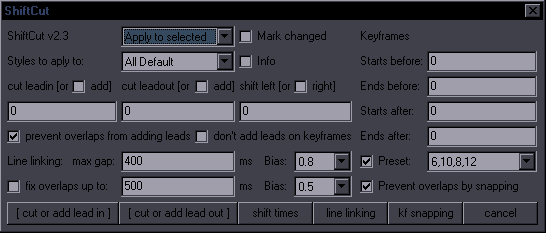
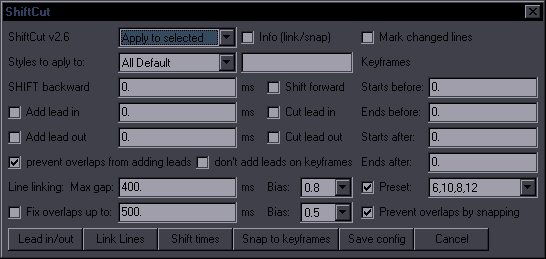
2014-07-31

diff --git a/ts/scripts-unanimated.htm b/ts/scripts-unanimated.htm
@@ -48,7 +48,7 @@ You can report problems/errors in #irrational-typesetting-wizardry@irc.rizon.net
 <a href="multicopy.lua">MultiCopy</a> 				</td><td>v2.3 - copy various things from multiple lines to other multiple lines</td></tr><tr><td>
 <a href="backup.lua">Backup Checker</a> 			</td><td>v1.1 - lets you to make a backup of your script and compare new lines with the backup</td></tr><tr><td>
 <a href="time_signs2.lua">Time signs from timecodes</a> 	</td><td>v2.5 - times signs from timecodes like {TS 5:36}</td></tr><tr><td>
-<a href="shiftcut.lua">ShiftCut</a> 				</td><td>v2.5 - does things with timing. TPP functions and more.</td></tr><tr><td>
+<a href="shiftcut.lua">ShiftCut</a> 				</td><td>v2.6 - does things with timing. TPP functions and more.</td></tr><tr><td>
 <a href="apply_fade.lua">Apply fade</a> 			</td><td>v3.7 - does fades including alpha or colour transforms and more</td></tr><tr><td>
 <a href="import.lua">Unimportant</a>		 		</td><td>v2.0 - does a shitload of things that didn't fit into other scripts</td></tr><tr><td>
 <a href="change_capitalization.lua">Change Capitalization</a> 	</td><td>v1.8 - lowercase, uppercase, capitalize lines or words</td></tr>

diff --git a/ts/script-updates.htm b/ts/script-updates.htm
@@ -16,6 +16,7 @@ b {font-weight:bold; color:556677}
 <tr><td bgcolor=000000>
 <pre>Note: 0.01 updates are mostly bugfixes or minor changes. 0.1 updates are usually new features or bigger changes.
 
+2014-07-31   v2.6	<a href="shiftcut.lua">ShiftCut</a> - rebuilt GUI; save config + custom presets
 2014-07-31   v2.2	<a href="masquerade.lua">Masquerade</a> - option to save custom masks and add them to the menu
 
 2014-07-30   v3.8	<a href="hydra.lua">HYDRA</a> - relative transforms (you have \frz30, set tf 60, get \t(\frz90) - keeps layers with different values in sync.)
